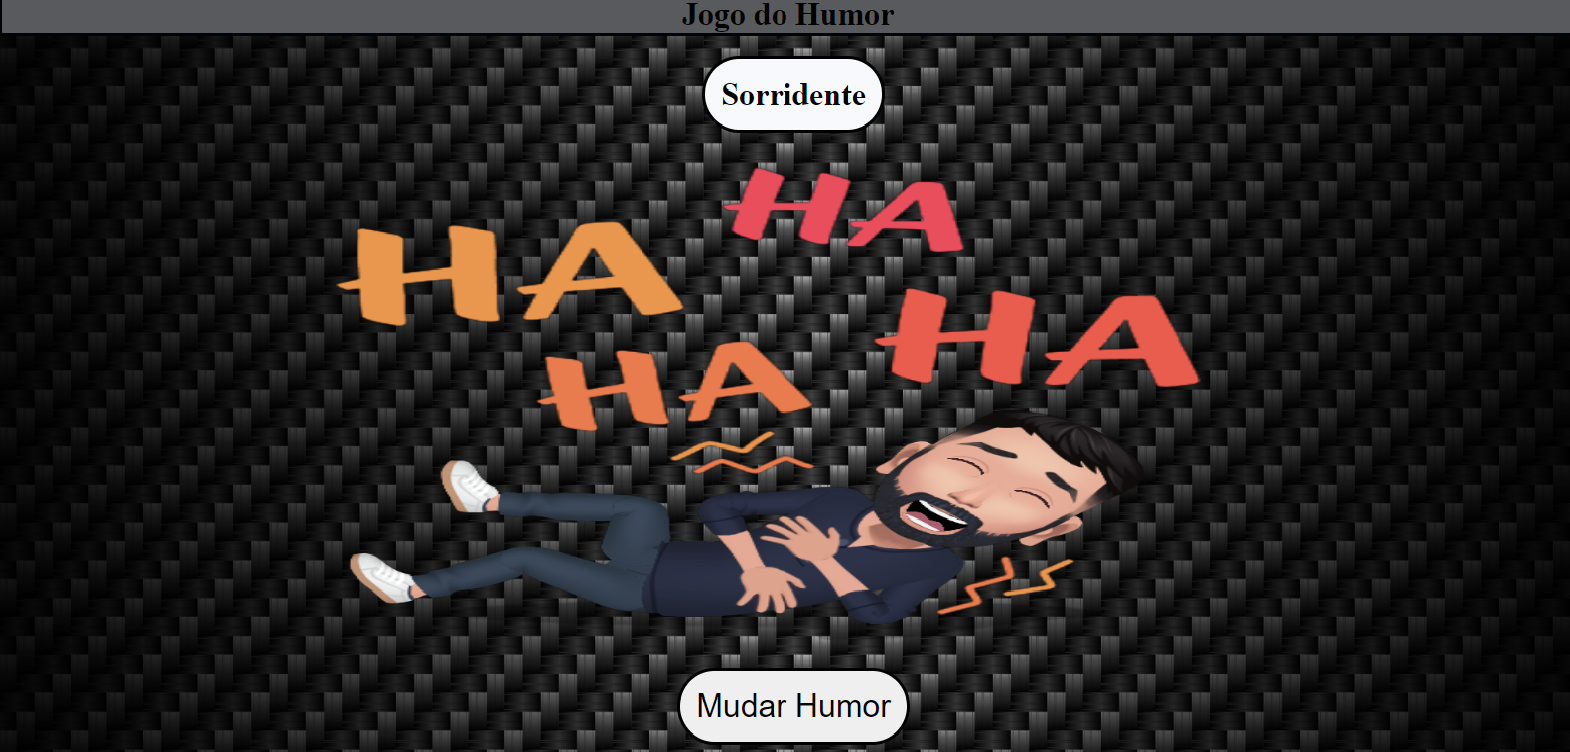
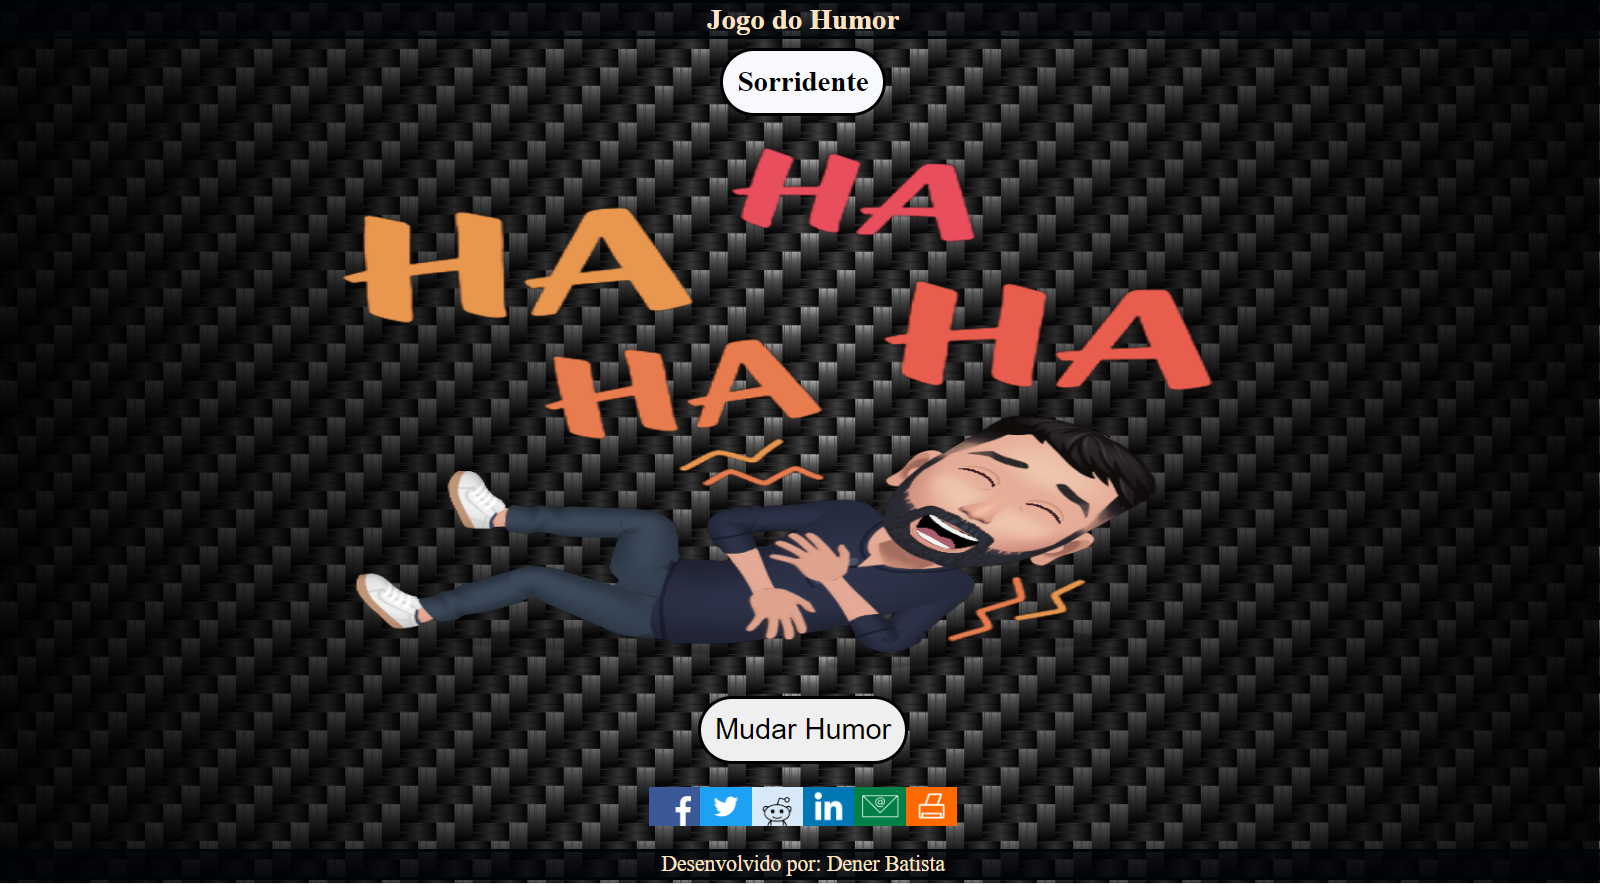
correção de bordas

diff --git a/assets/css/style.css b/assets/css/style.css
@@ -5,14 +5,14 @@
   padding: 0;
 }
 
-body{
+body {
   display: flex;
   flex-direction: column;
   flex-wrap: wrap;
   gap: 10px;
   background: url(../img/background.jpg);
   background-size: cover;
-  border: solid rgb(0, 4, 10);
+  align-items: center;
 }
 main {
   display: flex;
@@ -23,7 +23,6 @@ main {
 }
 
 header {
-  /* border-width: 3rem; */
   border: solid rgb(0, 4, 10);
   background-color: rgba(0, 2, 6, 0.652);
   width: 100vw;
@@ -31,22 +30,21 @@ header {
   color: bisque;
 }
 
- #bloco{
-    display: flex;
-    flex-direction: column; 
-    align-items: center;
-    gap: 25px;
+#bloco {
+  display: flex;
+  flex-direction: column;
+  align-items: center;
+  gap: 25px;
 }
 
 h2 {
-    border-radius: 3rem;
-    background-color: rgb(247, 249, 253);
-    border: solid black;
-    text-align: center;
-    font-size: 2rem;
-    padding: 1rem;
-  
-  }
+  border-radius: 3rem;
+  background-color: rgb(247, 249, 253);
+  border: solid black;
+  text-align: center;
+  font-size: 2rem;
+  padding: 1rem;
+}
 
 figure #imagem {
   width: 60vw;
@@ -61,24 +59,23 @@ figure #imagem {
   padding: 1rem;
   border: solid black;
 }
-#alterar:hover{
-    background-color: gray;
-    font-size: 250%;
-    cursor: pointer;
-}
 
+#alterar:hover {
+  background-color: gray;
+  font-size: 250%;
+  cursor: pointer;
+}
 
 #social {
-    display: flex;
-    flex-direction: row;
-    flex-wrap: wrap;
-    border-radius: 3rem;
-    width: 100%;
-    padding: 0.7rem;
-    justify-content: center;
-    align-items: center;
+  display: flex;
+  flex-direction: row;
+  flex-wrap: wrap;
+  border-radius: 3rem;
+  width: 100%;
+  padding: 0.7rem;
+  justify-content: center;
+  align-items: center;
 }
-
 
 footer {
   background-color: rgba(0, 2, 6, 0.652);
@@ -91,12 +88,12 @@ footer {
   color: bisque;
 }
 
-footer a{
+footer a {
   text-decoration: none;
   color: bisque;
 }
 
-footer a:hover{
+footer a:hover {
   font-size: 120%;
   color: aquamarine;
 }

diff --git a/index.html b/index.html
@@ -1,21 +1,15 @@
 <!DOCTYPE html>
-<html lang="en">
+<html lang="pt-br">
   <head>
     <meta charset="UTF-8" />
     <meta http-equiv="X-UA-Compatible" content="IE=edge" />
     <meta name="viewport" content="width=device-width, initial-scale=1.0" />
     <meta property="og:title" content="Jogo do Humor" />
-    <meta
-      property="og:description"
-      content="Projeto desenvolvido por Dener Batista, solicitado pela BlueEdtch para fins educacionais."
-    />
-    <meta
-      property="og:image"
-      content="https://denerbatista.github.io/projeto_humor/assets/img/social.png"
-    />
+    <meta property="og:description"  content="Projeto desenvolvido por Dener Batista, solicitado pela BlueEdtch para fins educacionais."/>
+    <meta property="og:image" content="https://denerbatista.github.io/projeto_humor/assets/img/social.png"/>
     <meta property="og:image:type" content="image/png" />
-    <meta property="og:image:width" content="1570" />
-    <meta property="og:image:height" content="752" />
+    <meta property="og:image:width" content="1570"/>
+    <meta property="og:image:height" content="752"/>
     <link rel="shortcut icon" type="imagex/png" href="https://cdn.discordapp.com/attachments/947324026236330018/965343050052296744/image.ico">
     <link rel="stylesheet" href="./assets/css/style.css" />
     <title>Jogo do Humor</title>
